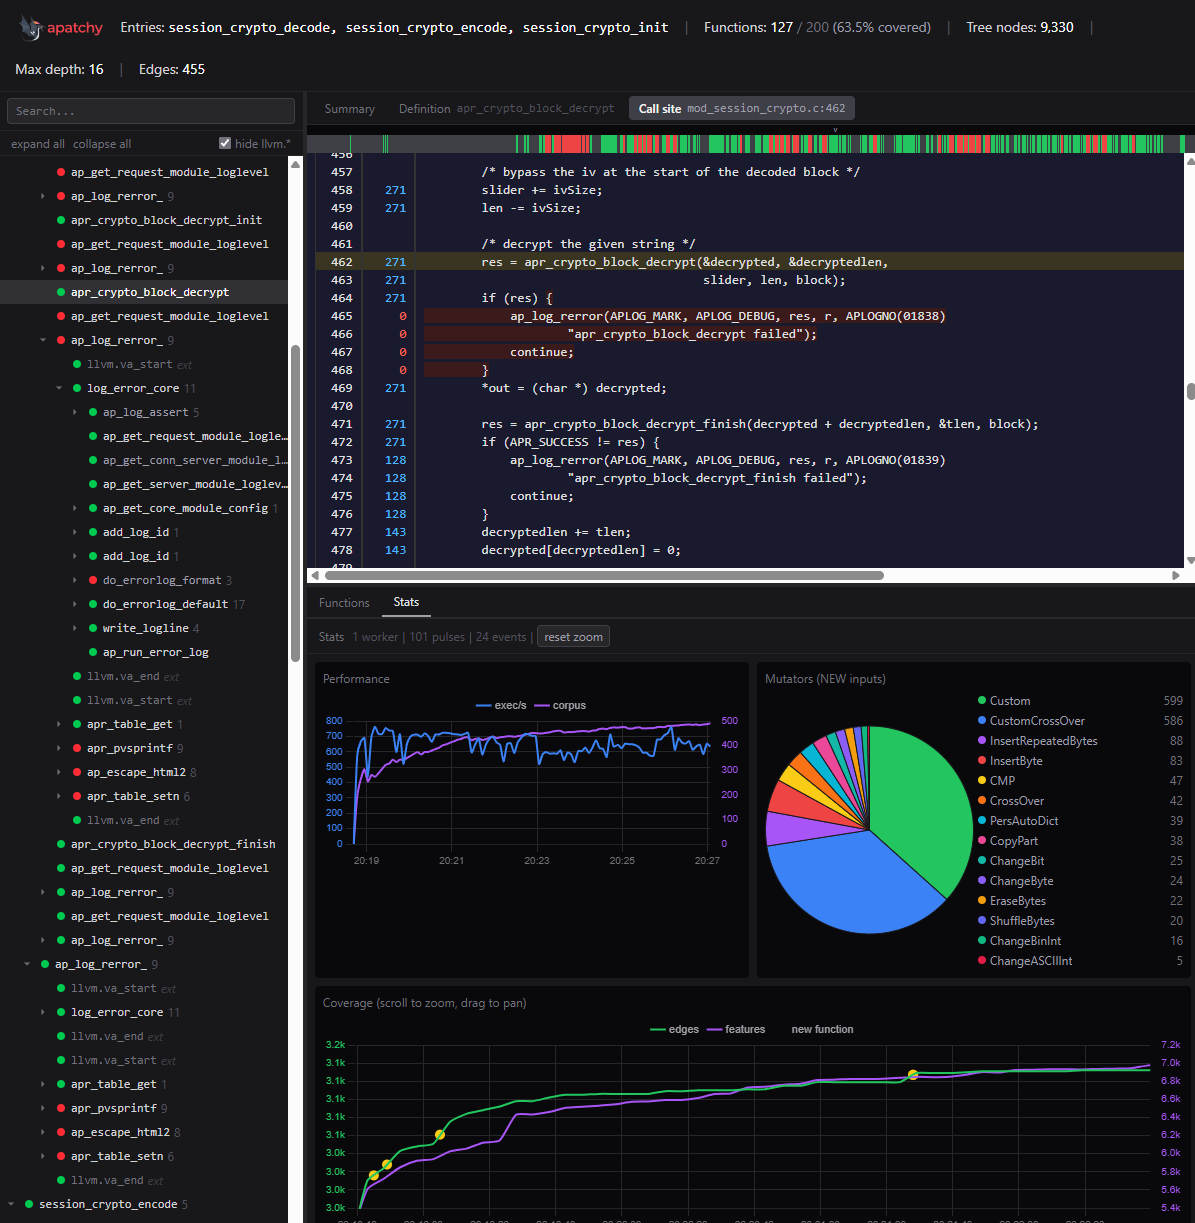
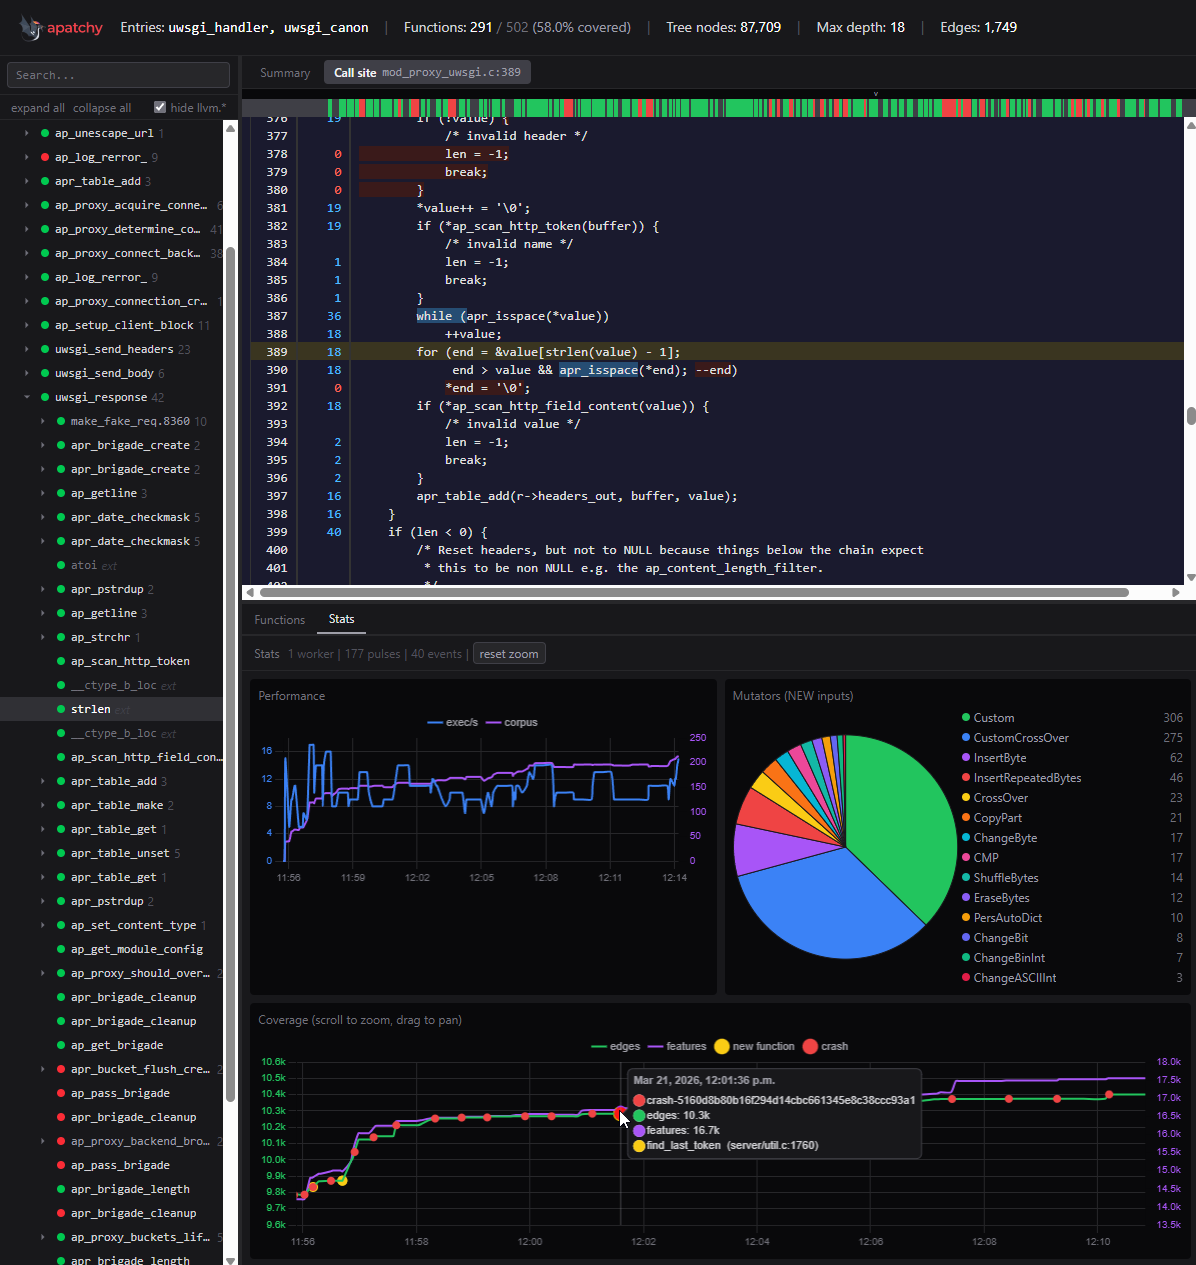
introspector: crash events as red dots on coverage graph
* record crash events from libfuzzer "Test unit written to" output
* split events into function (yellow) and crash (red) dots
* fix legend to show correct colors for dot-only datasets
* memoize zoom/pan options to preserve state across re-renders

diff --git a/framework/introspector/gui/src/components/StatsPanel.tsx b/framework/introspector/gui/src/components/StatsPanel.tsx
@@ -66,6 +66,7 @@ const COLORS = {
   execS: '#3b82f6',
   corpus: '#a855f7',
   event: '#facc15',
+  crash: '#ef4444',
   grid: '#27272a',
   axis: '#71717a',
 };
@@ -88,8 +89,8 @@ export function StatsPanel({ sessions }: Props) {
   const covChartRef = useRef<ChartJS<'line'>>(null);
   const perfChartRef = useRef<ChartJS<'line'>>(null);
 
-  const { pulsePoints, eventPoints } = useMemo(() => {
-    if (!session) return { pulsePoints: [], eventPoints: [] };
+  const { pulsePoints, eventPoints, crashPoints } = useMemo(() => {
+    if (!session) return { pulsePoints: [], eventPoints: [], crashPoints: [] };
 
     const pulses = session.pulses.map((p) => ({
       ts: new Date(p.time).getTime(),
@@ -99,8 +100,7 @@ export function StatsPanel({ sessions }: Props) {
       exec_s: p.exec_s,
     }));
 
-    const events = session.events.map((ev) => {
-      const evTs = new Date(ev.time).getTime();
+    const interpolate = (evTs: number) => {
       let beforeIdx = 0;
       for (let i = 0; i < pulses.length; i++) {
         if (pulses[i].ts <= evTs) beforeIdx = i;
@@ -110,14 +110,24 @@ export function StatsPanel({ sessions }: Props) {
       const after = pulses[Math.min(beforeIdx + 1, pulses.length - 1)];
       const range = after.ts - before.ts;
       const t = range > 0 ? (evTs - before.ts) / range : 0;
-      return {
-        ts: evTs,
-        edges: Math.round(before.edges + (after.edges - before.edges) * t),
-        label: ev.value,
-      };
-    });
+      return Math.round(before.edges + (after.edges - before.edges) * t);
+    };
 
-    return { pulsePoints: pulses, eventPoints: events };
+    const funcEvents: { ts: number; edges: number; label: string }[] = [];
+    const crashes: { ts: number; edges: number; label: string }[] = [];
+
+    for (const ev of session.events) {
+      const evTs = new Date(ev.time).getTime();
+      const edges = interpolate(evTs);
+      const point = { ts: evTs, edges, label: ev.value };
+      if (ev.type === 'crash') {
+        crashes.push(point);
+      } else {
+        funcEvents.push(point);
+      }
+    }
+
+    return { pulsePoints: pulses, eventPoints: funcEvents, crashPoints: crashes };
   }, [session]);
 
   const mutatorData = useMemo(() => {
@@ -130,7 +140,7 @@ export function StatsPanel({ sessions }: Props) {
   const xMin = pulsePoints.length ? pulsePoints[0].ts : 0;
   const xMax = pulsePoints.length ? pulsePoints[pulsePoints.length - 1].ts : 1;
 
-  const zoomPanOptions = {
+  const zoomPanOptions = useMemo(() => ({
     limits: {
       x: { min: xMin, max: xMax, minRange: 1000 },
     },
@@ -143,7 +153,7 @@ export function StatsPanel({ sessions }: Props) {
       enabled: true,
       mode: 'x' as const,
     },
-  };
+  }), [xMin, xMax]);
 
   const resetZoom = () => {
     covChartRef.current?.resetZoom();
@@ -186,8 +196,21 @@ export function StatsPanel({ sessions }: Props) {
         showLine: false,
         yAxisID: 'y',
       },
+      {
+        label: 'crash',
+        data: crashPoints.map((e) => ({ x: e.ts, y: e.edges })),
+        borderColor: COLORS.crash,
+        backgroundColor: COLORS.crash,
+        borderWidth: 0,
+        pointRadius: 4,
+        pointHoverRadius: 6,
+        pointStyle: 'circle',
+        showLine: false,
+        yAxisID: 'y',
+        order: -1,
+      },
     ],
-  }), [pulsePoints, eventPoints]);
+  }), [pulsePoints, eventPoints, crashPoints]);
 
   const coverageOptions: ChartOptions<'line'> = useMemo(() => ({
     responsive: true,
@@ -219,7 +242,23 @@ export function StatsPanel({ sessions }: Props) {
     },
     plugins: {
       legend: {
-        labels: { color: '#a1a1aa', font: { size: 11 }, usePointStyle: true, pointStyle: 'line' },
+        labels: {
+          color: '#a1a1aa',
+          font: { size: 11 },
+          usePointStyle: true,
+          generateLabels: (chart) => {
+            return chart.data.datasets.map((ds, i) => ({
+              text: ds.label ?? '',
+              fontColor: '#a1a1aa',
+              fillStyle: ds.borderColor as string,
+              strokeStyle: ds.borderColor as string,
+              lineWidth: (ds as any).showLine === false ? 0 : 2,
+              pointStyle: (ds as any).showLine === false ? 'circle' : 'line',
+              hidden: !chart.isDatasetVisible(i),
+              datasetIndex: i,
+            }));
+          },
+        },
       },
       tooltip: {
         position: 'nearest',
@@ -230,10 +269,15 @@ export function StatsPanel({ sessions }: Props) {
         bodyColor: '#d4d4d8',
         titleFont: { size: 11 },
         bodyFont: { size: 11 },
+        usePointStyle: true,
         callbacks: {
           label: (ctx) => {
             if (ctx.dataset.label === 'new function') {
               const ev = eventPoints[ctx.dataIndex];
+              return ev ? ev.label : '';
+            }
+            if (ctx.dataset.label === 'crash') {
+              const ev = crashPoints[ctx.dataIndex];
               return ev ? ev.label : '';
             }
             return `${ctx.dataset.label}: ${formatNumber(ctx.parsed.y ?? 0)}`;
@@ -242,7 +286,7 @@ export function StatsPanel({ sessions }: Props) {
       },
       zoom: zoomPanOptions,
     },
-  }), [eventPoints, zoomPanOptions]);
+  }), [eventPoints, crashPoints, zoomPanOptions]);
 
   const perfData = useMemo(() => ({
     datasets: [

diff --git a/framework/src/apatchy/utils/libfuzzer_ui.py b/framework/src/apatchy/utils/libfuzzer_ui.py
@@ -210,6 +210,10 @@ class LibFuzzerUI:  # noqa: D101
 
         if "Test unit written to" in line:
             self.last_crash_time = time.monotonic()
+            crash_path = line.split("Test unit written to")[-1].strip().rstrip(";").strip()
+            crash_name = Path(crash_path).name if crash_path else "unknown"
+            if self.exporter:
+                self.exporter.record_event("crash", crash_name)
 
     def _count_crashes(self) -> int:
         if self.crashes_dir and self.crashes_dir.exists():